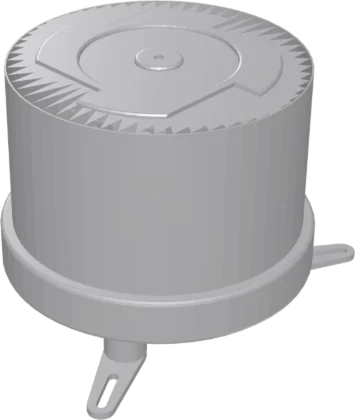
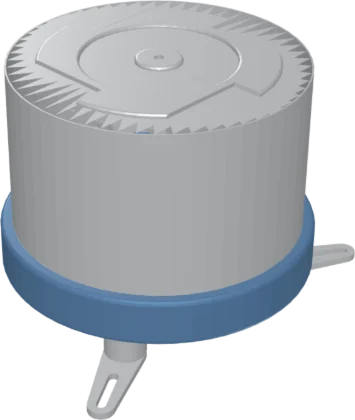
진동기에 색을 입힘 — 바닥 파랑 + 은색 몸통
"다 회색처럼 보이는데 색깔을 입힐 수 있나?" 라는 물음에, 넣을 수 있고 사실에도
맞아서 넣었다.

색을 STEP 에서 **가져올 수는 없었다.**

  메시 STEP 셋   COLOUR_RGB 가 단 하나(밝은 회색)이고 부품 이름도
                 Component 1…17 로 지워져 있다. CADProps 가 변환하며 외관을
                 버렸다
  고주파 STEP    색이 여럿이지만(주황·노랑·빨강) **실물과 다르다** - Inventor
                 에서 부품마다 임의로 준 표시색이라, 그대로 쓰면 고주파만
                 혼자 튄다(지난 커밋에서 그래서 걷었다)

그래서 넷 모두 **같은 규칙**으로 칠한다. 배치가 끝난 뒤 조각마다 월드 바운딩
박스를 재어

  Y 중심이 아래 40% 안  그리고  XZ 지름이 전체의 60% 이상  →  바닥 → 파랑
  그 밖                                                  →  은색

넷 다 조각 하나씩 바닥으로 잡혔다.

색의 근거는 **실물 사진**이다 - public/images/products/vibrator-01.webp 를 보면
바닥 원판이 파란 도장, 상판이 알루미늄 은색, 다리·볼트가 검정이다. .iam
미리보기에 보이던 청록도 이 실물과 맞는 색이었다.

네이비 배경(#0d1b33)에서 파랑이 묻힐까 싶어 회색 · 실물 파랑 · 밝힌 파랑 세
안을 넷씩 찍어 비교했고, 실물 파랑이 사실에 맞으면서 과하지 않아 골랐다.
회색으로 되돌리려면 렌더 스크립트를 COLORMODE=grey 로 돌리면 된다.

검정 부품(다리·블록·볼트)은 아직 안 가른다. 판별이 더 까다롭고 두 톤으로도
네이비 위에서 충분히 읽힌다.

열한 크기 히어로 넘침 0, 열한 쪽 x 1280/390 ✓ 22개. 파일 13.3~16.1KB
(회색 때 12.6~15.1KB). 폭은 그대로라 --span 계수는 건드리지 않았다.

Changed region(s): [[0.0, 0.4643, 0.8986, 0.8357], [0.3718, 0.3095, 0.4338, 0.3405]]

diff --git a/src/app/page.tsx b/src/app/page.tsx
@@ -128,7 +128,8 @@ const VIBRATORS = [
           카메라   az 45도 · el 30도 · fov 26
           조명     ambient 0.75 + key(1,1.4,1.1) 2.0
                    + fill(-1.2,0.3,-0.8) 0.8 + rim(0,-1,-0.6) 0.5
-          재질     metalness 0.35 · roughness 0.52 · 색 0.78/0.78/0.80 고정
+          재질     metalness 0.35 · roughness 0.52
+          색       바닥 원판 파랑(0.15/0.33/0.60) · 나머지 은색(0.80/0.82/0.84)
           법선     toNonIndexed() 로 풀어 **면 법선**(flat)을 쓴다
           자세     Z-up 보정(rotation.x = -π/2) 뒤, **가장 짧은 축이 높이(Y)가
                    되도록** 월드축 후보 셋을 재어 고른다. 진동기는 전부 납작한
@@ -145,9 +146,28 @@ const VIBRATORS = [
         toNonIndexed() 로 풀어 면 법선을 쓰면 평면이 평면으로 선다.
         ⚠ 512px 원본으로 확인할 것. 히어로 크기(215px)에서는 안 보인다.
 
-     ⚠ **occt 가 주는 색을 버린다.** STEP 에는 부품 색이 들어 있어(고주파는
-        146개 중 55개) 그대로 쓰면 **고주파만 검정이 섞인다**. 메시 STEP 셋에는
-        색이 없어 회색이라 결이 갈렸다. 넷 다 같은 회색으로 고정한다
+     ⚠⚠ **색은 STEP 에서 가져오지 않고 위치로 칠한다.**
+
+        가져올 수가 없다 — 메시 STEP 셋은 COLOUR_RGB 가 **단 하나**(밝은 회색)
+        이고 부품 이름도 Component 1…17 로 지워져 있다. CADProps 가 변환하며
+        외관을 버렸다. 고주파 STEP 에는 색이 여럿 있지만(주황·노랑·빨강)
+        **실물과 다르다** — Inventor 에서 부품마다 임의로 준 표시색이라,
+        그대로 쓰면 고주파만 검정·주황이 섞여 혼자 튄다.
+
+        그래서 **넷 모두 같은 규칙**으로 칠한다. 배치가 끝난 뒤 조각마다
+        월드 바운딩 박스를 재어
+
+          Y 중심이 아래 40% 안  그리고  XZ 지름이 전체의 60% 이상  →  바닥 → 파랑
+          그 밖                                                  →  은색
+
+        넷 다 조각 하나씩 바닥으로 잡힌다.
+
+        ⚠ 색의 근거는 **실물 사진**이다 — public/images/products/vibrator-01.webp
+           을 보면 바닥 원판이 파란 도장, 상판이 알루미늄 은색, 다리·볼트가
+           검정이다. .iam 미리보기의 청록도 이 실물과 맞는다.
+        ⚠ 검정 부품(다리·블록·볼트)은 아직 안 가른다. 판별이 더 까다롭고,
+           지금 두 톤으로도 네이비 배경 위에서 충분히 읽힌다.
+        ⚠ 회색 한 톤으로 되돌리려면 렌더 스크립트를 COLORMODE=grey 로 돌린다.
 
      ⚠⚠ **셋은 메시 STEP(AP242)이라 occt-import-js 가 못 읽는다.**
         CADProps 로 내보낸 "approximate tessellation" 이고, occt 는 성공을
